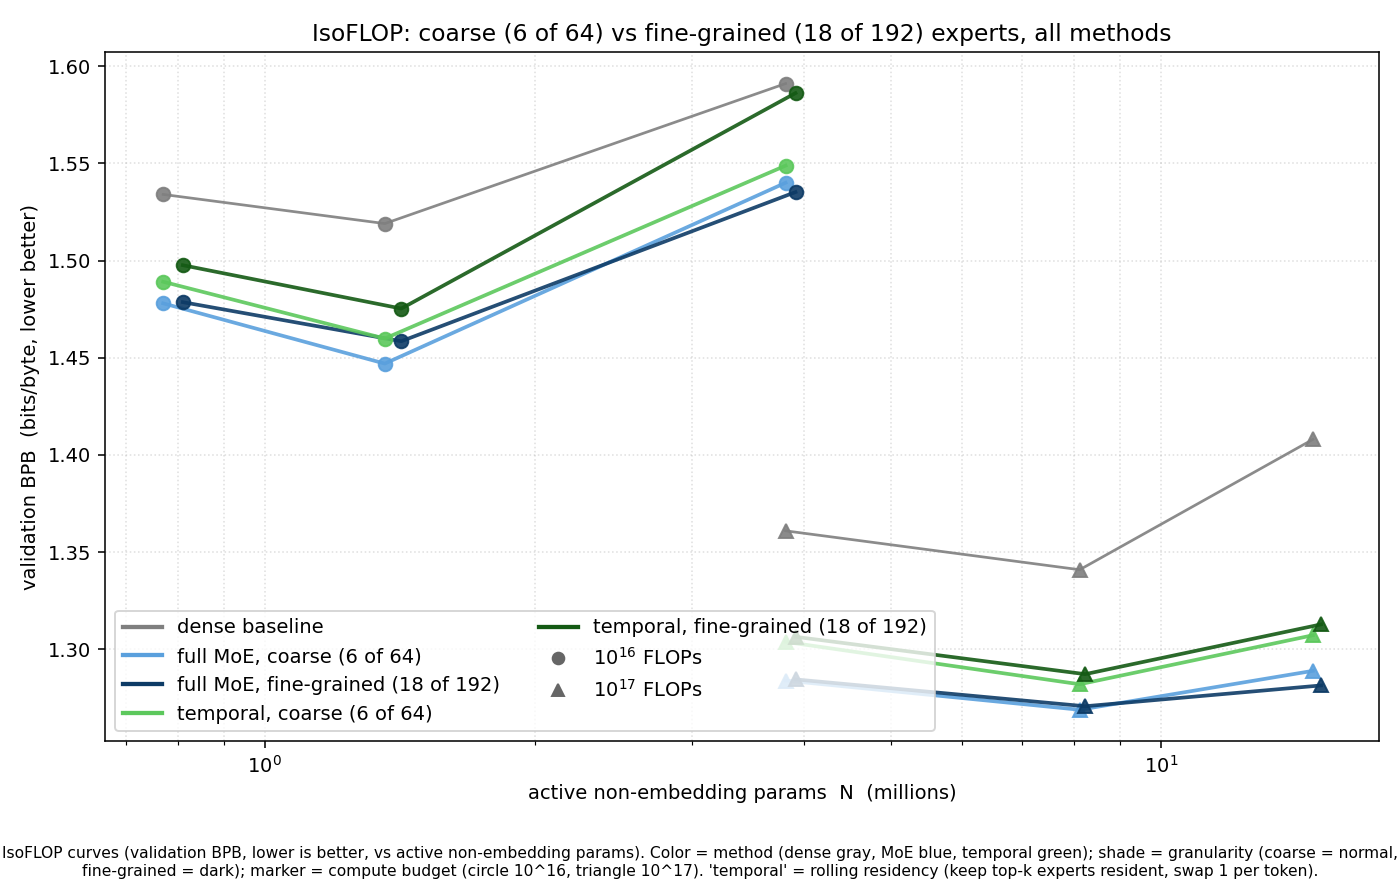
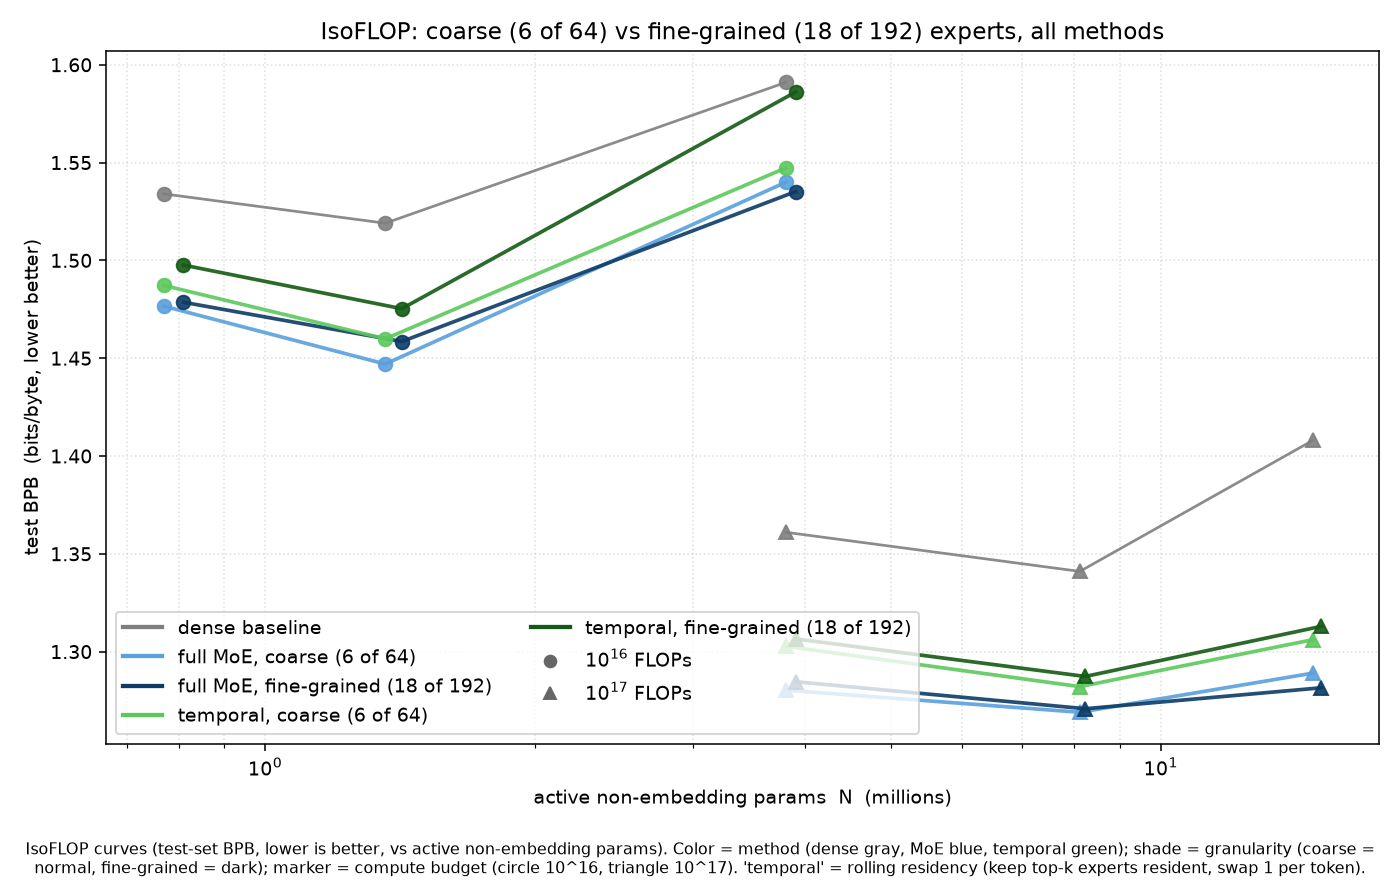
Code accuracy pass: plots + docs onto the canonical test-final series
- plot_g3_curves.py: MOE_G1/TMP_G1 dicts -> end-of-training test-set BPB
  (sm1 1.4766, s1@1e17 1.2803; temporal sm1 1.4872/s1 1.5473/s1@17 1.3027/
  s3@17 1.3061); axis/caption 'validation BPB' -> 'test BPB'. Figure regen.
- plot_1e18.py: bars -> test-final two-seed means (coarse moe 3.9243,
  temporal 3.9069; dense 4.1373), measured half-ranges 0.0059/0.0025;
  annotations recomputed (-0.084 nats, ~75% recovery); axis/caption ->
  test CE; ADDED the per-seed dots the caption always claimed; docstring
  now points at results/ablations CSVs. Both figures regenerated.
- docs/TEMPORAL_MOE_RESULTS.md deleted (stale val-mix twin of
  results/ablations/FINDINGS.md, zero inbound references).
- mechinterp-delexicalization.md: coarse CE pair -> test values
  (3.9094 vs 3.9184); shared-fine-grained-moe.md: historical-basis caveat
  pointing at FINDINGS.md.
parse_run.py already fixed on main; pods' copies are simply behind (no
pod-side edits), so the merge will keep main's version.

diff --git a/scripts/phase0/plot_1e18.py b/scripts/phase0/plot_1e18.py
@@ -1,10 +1,12 @@
 #!/usr/bin/env python3
 """1e18 (FLAME-MoE-38M-100M scale): dense floor vs full MoE (coarse & fine-grained) vs temporal.
-Validation cross-entropy (nats, lower better), pythia-50k tokenizer, our dclm val split. Single axes.
-Measured locally on one val split: MoE coarse (6/64, 2 seeds), temporal coarse (6/64, 2 seeds),
-MoE fine (18/192), temporal fine (18/192). Coarse bars show the two-seed mean with individual seed
-dots. Dense floor reused from the A6000 baseline (4.137; same corpus/tokenizer, cross-data <~0.01
-nats). Seed curves: results/phase0/figure_data/t18_coarse_{temporal,moe}.csv (val@2121 lines).
+Test-set cross-entropy (nats, lower better), pythia-50k tokenizer, dclm. Single axes.
+Measured locally on one split: MoE coarse (6/64, 2 seeds), temporal coarse (6/64, 2 seeds),
+MoE fine (18/192), temporal fine (18/192). Coarse bars show the two-seed mean of the END-OF-TRAINING
+TEST evals (canonical series, train.log-verified; see results/ablations/FINDINGS.md section 7) with
+individual seed dots. Dense floor reused from the A6000 baseline (test 4.1373; same corpus/tokenizer,
+cross-data <~0.01 nats). Seed finals: results/ablations/t18_1e18_curves.csv (final_test_ce @2121)
+and flame38m_1e18_cells.csv.
 Output: results/phase0/figures/temporal_vs_dense_and_moe_1e18_crossentropy.png
 """
 import os, sys
@@ -23,13 +25,14 @@ if PAPER:
 
 # worst -> best CE (left -> right). Colors match the left isoFLOP figure: hue = method
 # (gray dense, blue MoE, green temporal), shade = granularity (coarse normal / fine dark).
-# Only dense is A6000 cross-data (different val split, within ~0.01 nats) — noted in the caption;
-# the other four are local, one shared split. Coarse arms: two seeds each (val@2121 basis),
-# bar = seed mean. Error bars: MEASURED two-seed half-ranges on the coarse bars (MoE 0.0064,
-# temporal 0.0024); the single-seed fine bars carry the METHOD-MATCHED coarse half-range as an
-# estimate; dense carries its documented +/-0.01 cross-data uncertainty.
-ce     = [4.137, 4.0087, 3.9768, 3.9273, 3.9098]      # coarse bars = two-seed means
-yerr   = [0.010, 0.0064, 0.0024, 0.0064, 0.0024]      # dense xdata | fine est. | coarse measured
+# Only dense is A6000 cross-data (different split, within ~0.01 nats) — noted in the caption;
+# the other four are local, one shared split. All values = end-of-training TEST evals. Coarse arms:
+# two seeds each, bar = seed mean (moe (3.918414+3.930210)/2, temporal (3.909421+3.904324)/2).
+# Error bars: MEASURED two-seed half-ranges on the coarse bars (MoE 0.0059, temporal 0.0025); the
+# single-seed fine bars carry the METHOD-MATCHED coarse half-range as an estimate; dense carries
+# its documented +/-0.01 cross-data uncertainty.
+ce     = [4.1373, 4.0087, 3.9768, 3.9243, 3.9069]     # coarse bars = two-seed means (test)
+yerr   = [0.010, 0.0059, 0.0025, 0.0059, 0.0025]      # dense xdata | fine est. | coarse measured
 colors = ["#7f7f7f", "#0d3b66", "#145a14", "#5aa0dd", "#5cc85c"]
 labels = (["dense", "full MoE\nfine", "temporal\nfine", "full MoE\ncoarse", "temporal\ncoarse"] if PAPER else
           ["dense\nbaseline", "full MoE\nfine (18 of 192)", "temporal\nfine (18 of 192)",
@@ -41,32 +44,37 @@ bars = ax.bar(labels, ce, color=colors, width=0.66, edgecolor="k", linewidth=0.6
 for b, v, e in zip(bars, ce, yerr):
     ax.text(b.get_x()+b.get_width()/2, v + e + 0.005, f"{v:.3f}", ha="center",
             fontsize=(11 if PAPER else 10.5), fontweight="bold")
+# individual seed finals (test) on the two-seed coarse bars
+SEEDS = {3: [3.918414, 3.930210], 4: [3.909421, 3.904324]}   # moe coarse, temporal coarse
+for i, vals in SEEDS.items():
+    x = bars[i].get_x() + bars[i].get_width()/2
+    ax.scatter([x]*len(vals), vals, s=16, color="k", zorder=6)
 ax.grid(True, axis="y", ls=":", alpha=0.4)
 
 if PAPER:
     ax.set_ylim(3.6, 4.20)
-    ax.set_ylabel("validation CE (nats)")
+    ax.set_ylabel("test CE (nats)")
     ax.set_title("Quality at $10^{18}$ FLOPs")
     fig.tight_layout()
     out = f"{REPO}/results/phase0/figures/temporal_vs_dense_and_moe_1e18_crossentropy_nocaption.png"
 else:
-    # finding 1: fine-graining hurts the full MoE (fine 4.009 -> coarse 3.927 mean)
-    ax.annotate("", xy=(3, 3.9273), xytext=(1, 4.0087),
+    # finding 1: fine-graining hurts the full MoE (fine 4.009 -> coarse 3.924 mean)
+    ax.annotate("", xy=(3, 3.9243), xytext=(1, 4.0087),
                 arrowprops=dict(arrowstyle="->", color="darkred", lw=1.4))
-    ax.text(2.0, 4.15, "fine-graining hurts the full MoE  (−0.088 nats)", ha="center", fontsize=8.5, color="darkred")
+    ax.text(2.0, 4.15, "fine-graining hurts the full MoE  (−0.084 nats)", ha="center", fontsize=8.5, color="darkred")
     # finding 2: temporal (fine) beats its own-granularity full MoE
     ax.annotate("", xy=(2, 3.9768), xytext=(1, 4.0087),
                 arrowprops=dict(arrowstyle="->", color="green", lw=1.2))
     ax.text(2.55, 4.05, "temporal beats its own-granularity full MoE", ha="left", fontsize=8, color="green")
-    rec = (4.137 - 3.9768) / (4.137 - 3.9273) * 100
+    rec = (4.1373 - 3.9768) / (4.1373 - 3.9243) * 100
     ax.text(0.985, 0.06, f"temporal (fine) recovers ~{rec:.0f}% of the\ndense→(coarse full-MoE) gap; coarse temporal\nbeats coarse MoE on BOTH seeds (dots)",
             transform=ax.transAxes, ha="right", va="bottom", fontsize=8.3, color="dimgray")
     ax.set_ylim(3.6, 4.25)
-    ax.set_ylabel("validation cross-entropy (nats, lower better)")
+    ax.set_ylabel("test cross-entropy (nats, lower better)")
     ax.set_title("At 10^18 FLOPs (FLAME-MoE-38M scale): fine-graining hurts the full MoE,\n"
                  "but temporal routing is robust — and stays inside the dense↔MoE band")
     fig.text(0.5, 0.005,
-             "Validation cross-entropy (CE, nats, lower better) at 10^18 FLOPs (~38M-active model, pythia-50k, "
+             "Test-set cross-entropy (CE, nats, lower better) at 10^18 FLOPs (~38M-active model, pythia-50k, "
              "dclm). Hue = method (dense gray, MoE blue, temporal green); shade = granularity (coarse normal, "
              "fine-grained dark). 'temporal' = rolling residency (keep top-k resident, swap 1/token). Coarse "
              "bars = two-seed means with individual seeds as dots; dense is A6000 cross-data (different val "

diff --git a/scripts/phase0/plot_g3_curves.py b/scripts/phase0/plot_g3_curves.py
@@ -29,12 +29,13 @@ N_G3 = {"sm1": 0.81, "s0": 1.42, "s1": 3.91, "s2": 8.23, "s3": 15.09}
 
 DENSE_G1 = {"1e16": {"sm1": 1.534, "s0": 1.519, "s1": 1.591},
             "1e17": {"s1": 1.361, "s2": 1.341, "s3": 1.408}}
-MOE_G1   = {"1e16": {"sm1": 1.478, "s0": 1.447, "s1": 1.540},
-            "1e17": {"s1": 1.284, "s2": 1.269, "s3": 1.289}}
+# Values = end-of-training TEST-set BPB (canonical series; see results/ablations/FINDINGS.md).
+MOE_G1   = {"1e16": {"sm1": 1.4766, "s0": 1.447, "s1": 1.540},
+            "1e17": {"s1": 1.2803, "s2": 1.269, "s3": 1.289}}
 MOE_G3   = {"1e16": {"sm1": 1.4786, "s0": 1.4585, "s1": 1.5352},
             "1e17": {"s1": 1.2846, "s2": 1.2708, "s3": 1.2815}}
-TMP_G1   = {"1e16": {"sm1": 1.4891, "s0": 1.4599, "s1": 1.5488},
-            "1e17": {"s1": 1.3039, "s2": 1.2821, "s3": 1.3073}}
+TMP_G1   = {"1e16": {"sm1": 1.4872, "s0": 1.4599, "s1": 1.5473},
+            "1e17": {"s1": 1.3027, "s2": 1.2821, "s3": 1.3061}}
 TMP_G3   = {"1e16": {"sm1": 1.4976, "s0": 1.4753, "s1": 1.5861},
             "1e17": {"s1": 1.3065, "s2": 1.2873, "s3": 1.3129}}
 
@@ -72,18 +73,18 @@ labels  += ["$10^{16}$ FLOPs", "$10^{17}$ FLOPs"]
 
 if PAPER:
     ax.set_xlabel("active params (M)")
-    ax.set_ylabel("validation BPB")
+    ax.set_ylabel("test BPB")
     ax.set_title("Quality at fixed compute")
     ax.legend(handles, labels, ncol=1, loc="lower left")
     fig.tight_layout()
     out = f"{REPO}/results/phase0/figures/fine_grained_vs_coarse_experts_isoflop_nocaption.png"
 else:
     ax.set_xlabel("active non-embedding params  N  (millions)")
-    ax.set_ylabel("validation BPB  (bits/byte, lower better)")
+    ax.set_ylabel("test BPB  (bits/byte, lower better)")
     ax.set_title("IsoFLOP: coarse (6 of 64) vs fine-grained (18 of 192) experts, all methods")
     ax.legend(handles, labels, ncol=2, loc="lower left")
     fig.text(0.5, 0.01,
-             "IsoFLOP curves (validation BPB, lower is better, vs active non-embedding params). "
+             "IsoFLOP curves (test-set BPB, lower is better, vs active non-embedding params). "
              "Color = method (dense gray, MoE blue, temporal green); shade = granularity (coarse = "
              "normal, fine-grained = dark); marker = compute budget (circle 10^16, triangle 10^17). "
              "'temporal' = rolling residency (keep top-k experts resident, swap 1 per token).",

diff --git a/docs/research/mechinterp-delexicalization.md b/docs/research/mechinterp-delexicalization.md
@@ -5,7 +5,7 @@
 Rolling residency restricts each token to the currently resident expert set, removing routing
 freedom, yet at 1e18 FLOPs the temporally constrained model achieves *lower* validation loss
 than the unconstrained MoE baseline of identical architecture, data, and compute, at both
-granularities (coarse: CE 3.9121 vs 3.9209, fine: 3.9768 vs 4.0087, both far below the dense
+granularities (test CE — coarse: 3.9094 vs 3.9184, fine: 3.9768 vs 4.0087, both far below the dense
 floor of 4.137, with a 1e19 replication in progress). A constraint that improves generalization
 must be suppressing a harmful behavior, and this section identifies it.
 

diff --git a/docs/shared-fine-grained-moe.md b/docs/shared-fine-grained-moe.md
@@ -1,5 +1,7 @@
 # Shared run plan: G=3 fine-grained MoE + temporal (H100 + A6000)
 
+> Historical coordination doc (numbers as published at the time, during-training-val basis for some G1 cells). Canonical final numbers: `results/ablations/FINDINGS.md` + `phase0_isoflop_points.csv`.
+
 Two-machine execution plan for the **G=3 fine-grained** FLAME-MoE Phase-0 sweep — the same
 IsoFLOP MoE-vs-temporal-vs-dense comparison as `docs/EVALUATION_METHODOLOGY.md`, but with the
 routed experts subdivided 3× (DeepSeek-style segmentation). Branch: `temporal-moe-impl`.
